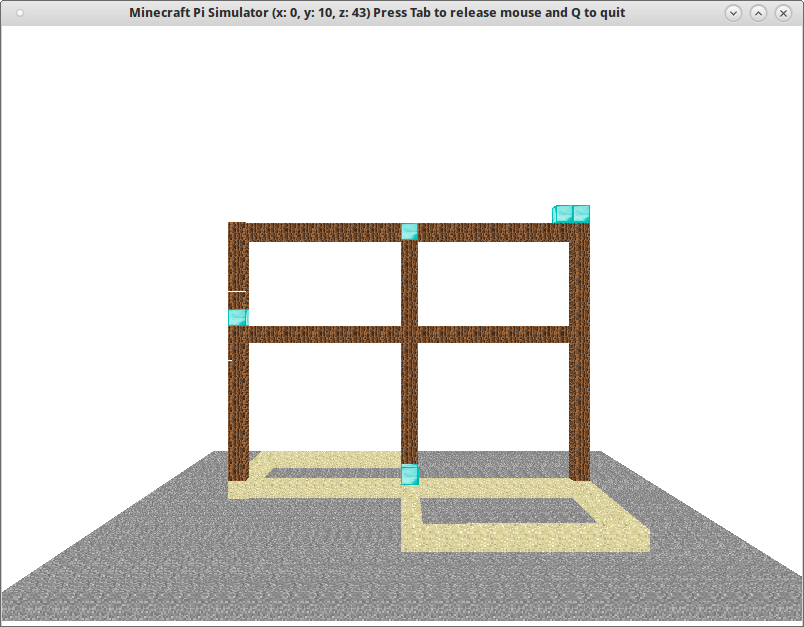
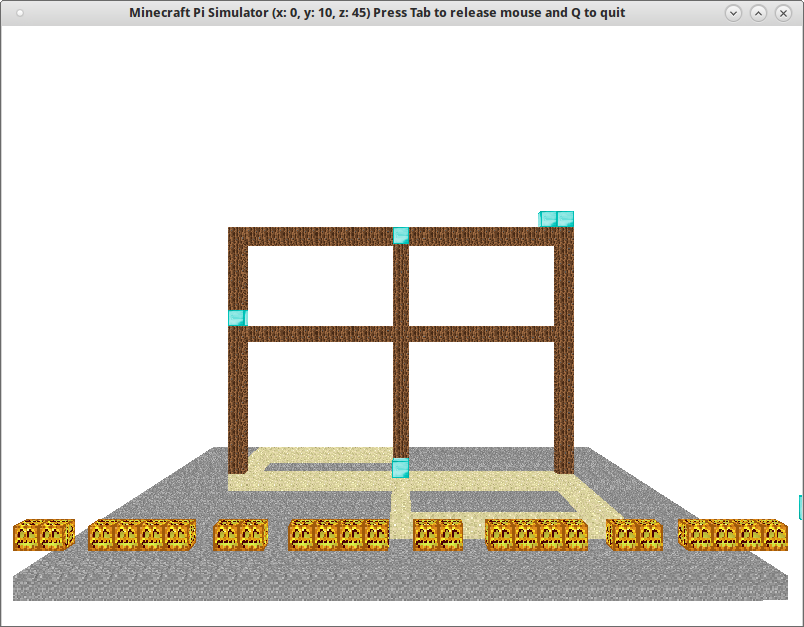
Uzupełnienie scenariusza McPi "Żółw w przestrzeni"

Changed region(s): [[0.0, 0.303, 1.0, 1.0]]

diff --git a/docs/mcpi/turtle/mcsim-turtle.py b/docs/mcpi/turtle/mcsim-turtle.py
@@ -75,6 +75,21 @@ def main(args):
     turtle.left(180)
     turtle.forward(19)
 
+    # SZLACZEK
+    turtle.penblock(block.MELON)
+    turtle.setx(-15)
+    turtle.sety(2)
+    turtle.setz(15)
+    turtle.left(180)
+    for i in range(8):
+        if (i % 2 == 0):
+            turtle.forward(1)
+        else:
+            turtle.forward(3)
+        turtle.penup()
+        turtle.forward(2)
+        turtle.pendown()
+
     return 0
 
 

diff --git a/docs/mcpi/turtle/index.rst b/docs/mcpi/turtle/index.rst
@@ -37,7 +37,12 @@ przede wszystkim importujemy omawianą bibliotekę oraz klasę *Vec3* reprezentu
 w MC. Polecenie ``turtle = mcturtle.MinecraftTurtle(mc, start)`` tworzy obiekt "żółwia",
 którym będziemy mogli sterować za pomocą kilku metod.
 
-[todo]
+W powyższym kodzie używamy następujących metod:
+
+- ``speed()`` – ustawia prędkość budowania: 0 – brak animacji, 1 – b. wolno, 10 – najszybciej;
+- ``penblock()`` – ustawienie bloku, którym budujemy ślad;
+- ``forward(x)`` – idź do przodu o *x* "kroków";
+-  ``right(x)``, ``left(x)`` – obróć się w prawo/lewo o *x* stopni;
 
 Okna
 ======
@@ -54,14 +59,41 @@ Do funkcji ``main()`` dopisujemy:
     :lineno-start: 58
     :lines: 58-76
 
-[todo]
+W podanym kodzie mamy kilka nowych metod:
+
+- ``setposition(x, y, z)`` – ustawia "żółwia" na podanej pozycji;
+- ``up(x)`` – obróć się do góry o *x* stopni;
+- ``down(x)`` – obróć się w dół o *x* stopni;
+
+Szlaczek
+========
+
+Dopisz do funkcji ``main()`` podany kod:
+
+.. raw:: html
+
+    <div class="code_no">Kod nr <script>var code_no = code_no || 1; document.write(code_no++);</script></div>
+
+.. highlight:: python
+.. literalinclude:: mcsim-turtle.py
+    :linenos:
+    :lineno-start: 78
+    :lines: 78-92
+
+Nowe metody to:
+
+- ``setx(x)``, ``setx(y)``, ``setx(z)`` – metody ustawiają składowe pozycji,
+  jest też metoda ``position()``, która zwraca pozycję;
+- ``penup()``, ``pendown()`` – podniesienie/opuszczenie "pędzla", dodatkowo funkcja ``isdown()``
+  sprawdza, czy pędzel jest opuszczony;
 
 .. figure:: img/mcsim-turtle.png
 
-Litery
-=======
+**Ćwiczenia**
 
-Napisz kod, który zbuduje napis "KzK" podobny do pokazanego niżej.
+1. Napisz kod, który zbuduje napis "KzK" podobny do pokazanego niżej.
 
-.. figure:: img/mcsim-turtKzK.png
+	.. figure:: img/mcsim-turtKzK.png
 
+2. Napisz kod, który zbuduje sześcian. Przekształć go w funkcję, która
+buduje sześcian o podanej długości boku z podanego punktu.
